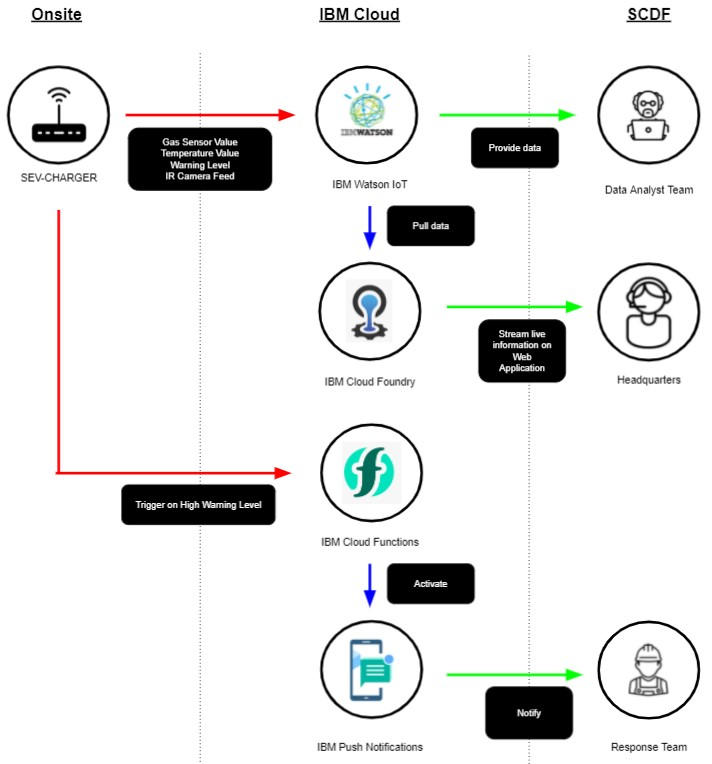
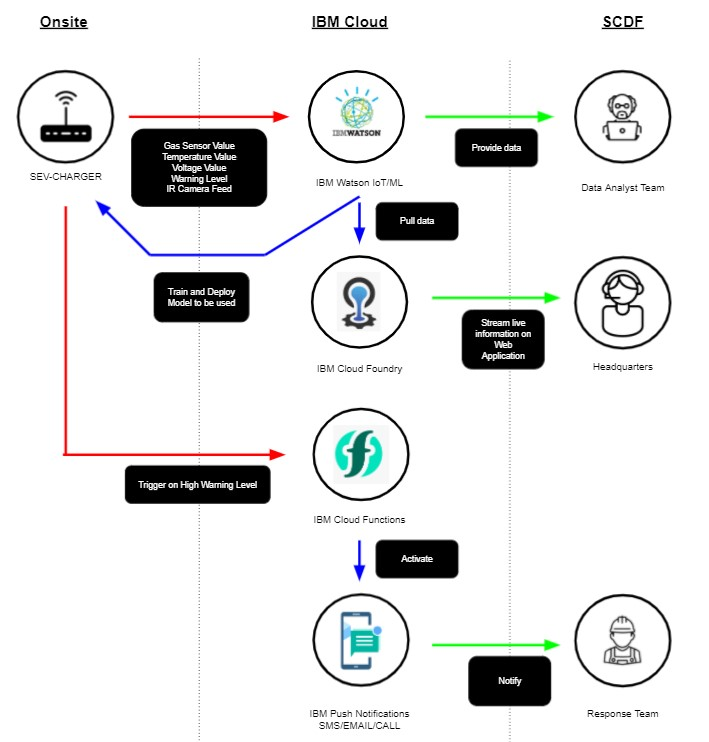
readme: add new architecture

diff --git a/README.md b/README.md
@@ -73,7 +73,8 @@ The overall architecture is broken down into three different segments: Onsite, I
 
 ### IBM Cloud Services
 
-- IBM Watson for IoT data storage
+- IBM Watson IoT for IoT data storage
+- IBM Watson Machine Learning for continuous training and deployment of machine learning models for severity prediction
 - IBM Cloud Foundry to host the React Web Application for live-streaming
 - IBM Cloud functions as a serverless backend to activate push notification
 - IBM Push Notification to send messages to Response Team on high warning level
